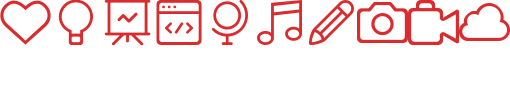
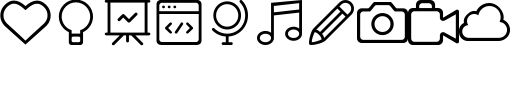
Changed color scheme

Changed region(s): [[0.5, 0.0, 1.0, 0.4091], [0.0294, 0.0, 0.5, 0.4091], [0.0, 0.0, 0.0882, 0.3]]

diff --git a/style/style.css b/style/style.css
@@ -4,8 +4,8 @@
 */
 /*------------------------------------------------------------------
 [Color Codes]
-Dark Red: #c12728;
-Light Red: #d82c2e;
+Dark Red: #418894;
+Light Red: #4A9AA7;
 Dark Grey: #363b3f;
 Dark Grey 2: #b6b7b7;
 Social Buttons: #444749;
@@ -32,19 +32,19 @@ Black: #000000;
 body { color: #363b3f; background: #f7f8f8; }
 
 .section { padding: 30px 0 50px 0px; }
-.section h1, .section h2, .section h3, .section h4 { font-family: "Lato", sans-serif; font-weight: 700; color: #d82c2e; }
+.section h1, .section h2, .section h3, .section h4 { font-family: "Lato", sans-serif; font-weight: 700; color: #4A9AA7; }
 .section p { font-family: "Lato", sans-serif; font-weight: 400; font-size: 15px; line-height: 24px; }
 .section .heading { text-align: center; padding-bottom: 40px; }
 .section .profilePic { text-align: center; margin: 0 auto; float: none; }
-.section .divider { width: 100px; height: 1px; background: #d82c2e; margin: 0 auto; }
+.section .divider { width: 100px; height: 1px; background: #4A9AA7; margin: 0 auto; }
 
 section.colored h1, section.colored h2, section.colored h3, section.colored h4, section.colored p { color: white; }
 
 .btn, .filter a { font-family: "Lato", sans-serif; font-weight: 400; font-size: 14px; text-decoration: none; background: white; color: #b6b7b7; border: 1px solid #b6b7b7; padding: 18px; -webkit-transition: all 0.3s ease-in, 0s; -moz-transition: all 0.3s ease-in, 0s; -o-transition: all 0.3s ease-in, 0s; -ms-transition: all 0.3s ease-in, 0s; transition: all 0.3s ease-in, 0s; }
-.btn:hover, .filter a:hover, .btn:focus, .filter a:focus { background-color: #d82c2e; border-color: #d82c2e; color: white; }
+.btn:hover, .filter a:hover, .btn:focus, .filter a:focus { background-color: #4A9AA7; border-color: #4A9AA7; color: white; }
 
 .borderBtn, .contactform button { font-family: "Lato", sans-serif; font-weight: 700; font-size: 14px; text-decoration: none; color: white; border: 1px solid white; padding: 18px 50px 18px 50px; display: inline-block; -webkit-border-radius: 3px; -moz-border-radius: 3px; -ms-border-radius: 3px; -o-border-radius: 3px; border-radius: 3px; -webkit-transition: all 0.3s ease-in, 0s; -moz-transition: all 0.3s ease-in, 0s; -o-transition: all 0.3s ease-in, 0s; -ms-transition: all 0.3s ease-in, 0s; transition: all 0.3s ease-in, 0s; }
-.borderBtn:hover, .contactform button:hover, .borderBtn:focus, .contactform button:focus { background-color: white; color: #d82c2e; text-decoration: none; }
+.borderBtn:hover, .contactform button:hover, .borderBtn:focus, .contactform button:focus { background-color: white; color: #4A9AA7; text-decoration: none; }
 
 section .centered { margin: 0 auto; float: none; }
 
@@ -75,21 +75,21 @@ section .centered { margin: 0 auto; float: none; }
 /*------------------------------------------------------------------
 [2. Navbar]
 -------------------------------------------------------------------*/
-.navbar-flat { background: #d82c2e; margin-bottom: 0px; -webkit-border-radius: 0px; -moz-border-radius: 0px; -ms-border-radius: 0px; -o-border-radius: 0px; border-radius: 0px; }
+.navbar-flat { background: #4A9AA7; margin-bottom: 0px; -webkit-border-radius: 0px; -moz-border-radius: 0px; -ms-border-radius: 0px; -o-border-radius: 0px; border-radius: 0px; }
 .navbar-flat .navbar-collapse { text-align: center; }
 .navbar-flat .navbar-toggle .icon-bar { background: white; }
 .navbar-flat ul { float: none; }
 .navbar-flat li { display: inline-block; float: none; }
-.navbar-flat li a:hover { background: #c12728; color: white; }
-.navbar-flat li a:focus { background: #c12728; color: white; }
-.navbar-flat li.active a { background: #c12728; color: white; }
+.navbar-flat li a:hover { background: #418894; color: white; }
+.navbar-flat li a:focus { background: #418894; color: white; }
+.navbar-flat li.active a { background: #418894; color: white; }
 .navbar-flat a { font-family: "Lato", sans-serif; font-weight: 700; color: #f7f8f8; -webkit-transition: all 0.3s ease-in, 1s; -moz-transition: all 0.3s ease-in, 1s; -o-transition: all 0.3s ease-in, 1s; -ms-transition: all 0.3s ease-in, 1s; transition: all 0.3s ease-in, 1s; }
 .navbar-flat .navbar-brand { display: none; }
 
 /*------------------------------------------------------------------
 [3. About]
 -------------------------------------------------------------------*/
-.hero { background: #d82c2e; color: white; }
+.hero { background: #4A9AA7; color: white; }
 .hero .borderBtn, .hero .contactform button, .contactform .hero button { margin-top: 20px; }
 .hero h3 { color: black !important; }
 
@@ -99,7 +99,7 @@ section .centered { margin: 0 auto; float: none; }
 
 .services .services-inner { margin-top: 20px; -webkit-transition: all 0.3s ease-in, 0s; -moz-transition: all 0.3s ease-in, 0s; -o-transition: all 0.3s ease-in, 0s; -ms-transition: all 0.3s ease-in, 0s; transition: all 0.3s ease-in, 0s; }
 
-.service { border: 1px solid #e3e5e5; padding-top: 50px; padding-bottom: 50px; text-align: center; color: #d82c2e; margin-left: -1px; -webkit-transition: all 0.3s ease-in, 1s; -moz-transition: all 0.3s ease-in, 1s; -o-transition: all 0.3s ease-in, 1s; -ms-transition: all 0.3s ease-in, 1s; transition: all 0.3s ease-in, 1s; }
+.service { border: 1px solid #e3e5e5; padding-top: 50px; padding-bottom: 50px; text-align: center; color: #4A9AA7; margin-left: -1px; -webkit-transition: all 0.3s ease-in, 1s; -moz-transition: all 0.3s ease-in, 1s; -o-transition: all 0.3s ease-in, 1s; -ms-transition: all 0.3s ease-in, 1s; transition: all 0.3s ease-in, 1s; }
 .service h3 { color: black; -webkit-transition: all 0.3s ease-in, 0s; -moz-transition: all 0.3s ease-in, 0s; -o-transition: all 0.3s ease-in, 0s; -ms-transition: all 0.3s ease-in, 0s; transition: all 0.3s ease-in, 0s; }
 .service i { width: 51px; height: 45px; margin: 0 auto; display: block; background: url(../images/icons.png) no-repeat; -webkit-transition: all 0.3s ease-in, 0s; -moz-transition: all 0.3s ease-in, 0s; -o-transition: all 0.3s ease-in, 0s; -ms-transition: all 0.3s ease-in, 0s; transition: all 0.3s ease-in, 0s; }
 .service .heart { background-position: left top; }
@@ -112,7 +112,7 @@ section .centered { margin: 0 auto; float: none; }
 .service .camera { background-position: -357px top; }
 .service .vcamera { background-position: -408px top; }
 .service .cloud { background-position: -459px top; }
-.service:hover, .service:focus { background-color: #d82c2e; border-color: #d82c2e; color: white; }
+.service:hover, .service:focus { background-color: #4A9AA7; border-color: #4A9AA7; color: white; }
 .service:hover h3, .service:focus h3 { color: white; }
 .service:hover .heart, .service:focus .heart { background-position: left bottom; }
 .service:hover .bulp, .service:focus .bulp { background-position: -51px bottom; }
@@ -128,7 +128,7 @@ section .centered { margin: 0 auto; float: none; }
 /*------------------------------------------------------------------
 [4. Skills]
 -------------------------------------------------------------------*/
-section.skills { background: #d82c2e; }
+section.skills { background: #4A9AA7; }
 section.skills h4 { color: black !important; }
 
 .skill { margin: 0 auto 20px auto; float: none; text-align: center; }
@@ -177,7 +177,7 @@ section.skills h4 { color: black !important; }
 .filter { text-align: center; width: 100%; }
 .filter li { display: inline-block; padding: 5px; }
 .filter a { display: block; padding-top: 10px; padding-bottom: 10px; }
-.filter .current { background-color: #d82c2e; border-color: #d82c2e; color: white; }
+.filter .current { background-color: #4A9AA7; border-color: #4A9AA7; color: white; }
 
 section.portfolio { background: white; }
 
@@ -188,7 +188,7 @@ section.portfolio { background: white; }
 .portfolio-items .mask { width: 100%; height: 100%; background: url(../images/mask.png); position: absolute; left: 0px; top: 0px; z-index: 2; -ms-filter: "progid:DXImageTransform.Microsoft.Alpha(Opacity=" 0 ")"; filter: alpha(opacity=0); opacity: 0; -webkit-transition: all 0.2s linear, 1s; -moz-transition: all 0.2s linear, 1s; -o-transition: all 0.2s linear, 1s; -ms-transition: all 0.2s linear, 1s; transition: all 0.2s linear, 1s; }
 .portfolio-items .icons { position: absolute; width: 90px; height: 40px; left: 50%; top: 50%; margin: -21px auto 0 -47px; text-align: center; z-index: 3; }
 .portfolio-items .icons i { color: white; font-size: 20px; margin-top: 9px; }
-.portfolio-items .projectlink, .portfolio-items .fullwidth { width: 40px; height: 40px; background: #c12728; position: relative; -webkit-transition: all 0.2s ease-in-out, 0.2s; -moz-transition: all 0.2s ease-in-out, 0.2s; -o-transition: all 0.2s ease-in-out, 0.2s; -ms-transition: all 0.2s ease-in-out, 0.2s; transition: all 0.2s ease-in-out, 0.2s; }
+.portfolio-items .projectlink, .portfolio-items .fullwidth { width: 40px; height: 40px; background: #418894; position: relative; -webkit-transition: all 0.2s ease-in-out, 0.2s; -moz-transition: all 0.2s ease-in-out, 0.2s; -o-transition: all 0.2s ease-in-out, 0.2s; -ms-transition: all 0.2s ease-in-out, 0.2s; transition: all 0.2s ease-in-out, 0.2s; }
 .portfolio-items .fullwidth { float: left; top: -200px; }
 .portfolio-items .projectlink { float: right; bottom: -200px; }
 .portfolio-items li .item:hover img { -webkit-transform: scale(1.05, 1.05); -moz-transform: scale(1.05, 1.05); -o-transform: scale(1.05, 1.05); -ms-transform: scale(1.05, 1.05); transform: scale(1.05, 1.05); }
@@ -206,16 +206,16 @@ section.contact .details p { font-family: "Lato", sans-serif; font-size: 30px; f
 section.contact .details p.bigger { font-size: 40px; font-weight: 700; margin-top: 20px; }
 
 .contactform input, .contactform textarea { border: 1px solid #b6b7b7; color: #363b3f; background: none; padding: 15px 30px; margin: 0 3% 20px 0px; resize: none; }
-.contactform .error, .contactform .form-error { border-color: #c12728 !important; }
+.contactform .error, .contactform .form-error { border-color: #418894 !important; }
 .contactform .no-margin { margin-right: 0px; }
 .contactform input.col-lg-6 { width: 48.5%; }
-.contactform button { background: #d82c2e; }
-.contactform button:hover, .contactform button:focus { border-color: #d82c2e; }
+.contactform button { background: #4A9AA7; }
+.contactform button:hover, .contactform button:focus { border-color: #4A9AA7; }
 .contactform p { text-align: center; }
 
 .form a { color: white; }
 
-#map { float: left; width: 100%; height: 390px; border-top: 4px solid #d82c2e; }
+#map { float: left; width: 100%; height: 390px; border-top: 4px solid #4A9AA7; }
 
 /*------------------------------------------------------------------
 [8. Footer]
@@ -254,9 +254,9 @@ img { max-width: 100%; height: auto; }
 
 .clear { clear: both; }
 
-::selection { background-color: #d82c2e; color: white; }
+::selection { background-color: #4A9AA7; color: white; }
 
-::-moz-selection { background-color: #d82c2e; color: white; }
+::-moz-selection { background-color: #4A9AA7; color: white; }
 
 input, textarea { -webkit-appearance: none; }
 

diff --git a/style/style.scss b/style/style.scss
@@ -5,8 +5,8 @@
 
 $customFont: 'Lato', sans-serif;
 $defaultFont: 'Arial';
-$darkRedColor: #c12728;
-$lightRedColor: #d82c2e;
+$darkRedColor: #418894;
+$lightRedColor: #4A9AA7;
 $darkGreyColor: #363b3f;
 $darkGreyColor2: #b6b7b7;
 $socialIconsColor: #444749;
@@ -18,8 +18,8 @@ $baseWidth:900px;
 
 /*------------------------------------------------------------------
 [Color Codes]
-Dark Red: #c12728;
-Light Red: #d82c2e;
+Dark Red: #418894;
+Light Red: #4A9AA7;
 Dark Grey: #363b3f;
 Dark Grey 2: #b6b7b7;
 Social Buttons: #444749;

diff --git a/js/script.js b/js/script.js
@@ -97,7 +97,7 @@ $(document).ready(function(){
 			$('.chart').easyPieChart({
 				easing: 'easeInOut',
 				barColor: '#ffffff',
-				trackColor: '#d82c2e',
+				trackColor: '#4A9AA7',
 				scaleColor: false,
 				lineWidth: 4,
 				size: 152,
@@ -157,7 +157,7 @@ $(document).ready(function(){
 	// Form Validation
 	$.validate({
 		form:'.contactform',
-		borderColorOnError : '#c12728',
+		borderColorOnError : '#418894',
 		scrollToTopOnError : false,
 		validateOnBlur : false,
 		onError:function() {
